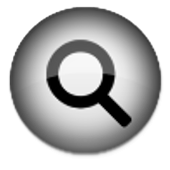
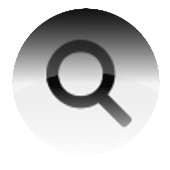
images
added online images

diff --git a/index.html b/index.html
@@ -37,72 +37,34 @@
             </div>
             <div id="galleryContainer">
                 <div id="first-row">
-                    <a href="">
-                        <img src="./images/sample1.jpg" alt=""/>
-                    </a>
-                    <a href="">
-                        <img src="./images/sample1.jpg" alt=""/>
-                    </a>
-                    <a href="">
-                        <img src="./images/sample1.jpg" alt=""/>
-                    </a>
-                    <a href="">
-                        <img src="./images/sample1.jpg" alt=""/>
-                    </a>
+                    <a href="#"></a>
+                    <a href="#"></a>
+                    <a href="#"></a>
+                    <a href="#"></a>
                 </div>
 
                 <div id="second-row">
-                    <a href="">
-                        <img src="./images/sample2.jpg" alt=""/>
-                    </a>
-                    <a href="">
-                        <img src="./images/sample2.jpg" alt=""/>
-                    </a>
-                    <a href="">
-                        <img src="./images/sample2.jpg" alt=""/>
-                    </a>
-                    <a href="">
-                        <img src="./images/sample2.jpg" alt=""/>
-                    </a>
-                    <a href="">
-                        <img src="./images/sample2.jpg" alt=""/>
-                    </a>
-                    <a href="">
-                        <img src="./images/sample2.jpg" alt=""/>
-                    </a>
-                    <a href="">
-                        <img src="./images/sample2.jpg" alt=""/>
-                    </a>
+                    <a href="#"></a>
+                    <a href="#"></a>
+                    <a href="#"></a>
+                    <a href="#"></a>
+                    <a href="#"></a>
+                    <a href="#"></a>
+                    <a href="#"></a>
                 </div>
 
                 <div id="third-row">
-                    <a href="">
-                        <img src="./images/sample3.jpg" alt=""/>
-                    </a>
-                    <a href="">
-                        <img src="./images/sample3.jpg" alt=""/>
-                    </a>
-                    <a href="">
-                        <img src="./images/sample3.jpg" alt=""/>
-                    </a>
+                    <a href="#"></a>
+                    <a href="#"></a>
+                    <a href="#"></a>
                 </div>
 
                 <div id="fourth-row">
-                    <a href="">
-                        <img src="./images/sample4.jpg" alt=""/>
-                    </a>
-                    <a href="">
-                        <img src="./images/sample4.jpg" alt=""/>
-                    </a>
-                    <a href="">
-                        <img src="./images/sample4.jpg" alt=""/>
-                    </a>
-                    <a href="">
-                        <img src="./images/sample4.jpg" alt=""/>
-                    </a>
-                    <a href="">
-                        <img src="./images/sample4.jpg" alt=""/>
-                    </a>
+                    <a href="#"></a>
+                    <a href="#"></a>
+                    <a href="#"></a>
+                    <a href="#"></a>
+                    <a href="#"></a>
                 </div>
             </div>
             <div id="register-box">

diff --git a/styles/mainStyles.css b/styles/mainStyles.css
@@ -6,7 +6,7 @@ body {
     background: url("../images/background.jpg");
     background-size: cover;
     font-family: 'Open Sans', sans-serif;
- }
+}
 
 body div#container header {
     text-align: center;
@@ -54,8 +54,8 @@ body div#container header div#mainMenu ul li {
 }
 
 body div#container header div#mainMenu ul li a {
-    text-decoration: none;
-    color: white;
+text-decoration: none;
+color: white;
 }
 
 body div#container header div#loginBox form {
@@ -76,6 +76,17 @@ body div#container header div#searchBox img {
 
 body div#container header div#searchBox button#search-button {
     background: url("../images/search.png");
+    background-size: cover;
+    width: 35px;
+    height: 35px;
+    border: none;
+    outline: none;
+    vertical-align: middle;
+    cursor: pointer;
+}
+
+body div#container header div#searchBox button#search-button:hover {
+    background: url("../images/search-hover.png");
     background-size: cover;
     width: 35px;
     height: 35px;
@@ -143,20 +154,57 @@ body div#container main div#login-box button, body div#container main div#regist
 }
 
 body div#container main div#galleryContainer {
-    padding: 2px;
-    margin-top: 10px;
-    margin-bottom: 10px;
- }
+    margin: 10px auto;
+    width: 825px;
+    padding: 5px;
+    border-radius: 10px;
+}
 
- #first-row, #second-row, #third-row, #fourth-row {
-     margin: 0;
-     margin-top: 2px;
-     padding: 0;
- }
- 
- body div#container footer {
-     background: url("../images/footer.jpg");
-     height: 50px;
-     margin-top: 15px;
-     background-size: contain;
- }
+body div#container main div#galleryContainer:hover {
+    background: rgba(255, 255, 255, 0.16);
+}
+
+#first-row, #second-row, #third-row, #fourth-row {
+    margin: 0;
+    margin-top: 2px;
+    padding: 0;
+}
+
+body div#container main div#galleryContainer div#first-row a {
+    display: inline-block;
+    width: 203px;
+    height: 114px;
+    background-image: url("http://fc00.deviantart.net/fs70/i/2010/332/2/3/bokeh_16_9_wallpaper_by_zeiphex-d33sn2y.jpg");
+    background-size: contain;
+}
+
+body div#container main div#galleryContainer div#second-row a {
+    display: inline-block;
+    width: 114px;
+    height: 64px;
+    background-image: url("http://www.yahee.net/wp-content/uploads/2014/01/Full-Hd-Duvarka%C4%9F%C4%B1tlar%C4%B1-1-305.jpg");
+    background-size: contain;
+}
+
+body div#container main div#galleryContainer div#third-row a {
+    display: inline-block;
+    width: 272px;
+    height: 153px;
+    background-image: url("http://www.100hdwallpapers.com/wallpapers/1920x1080/dark_game_scene-hd_wallpapers.jpg");
+    background-size: contain;
+}
+
+body div#container main div#galleryContainer div#fourth-row a {
+    display: inline-block;
+    width: 161px;
+    height: 91px;
+    background-image: url("http://squadracorse-polito.com/downloads/wallpapers/16-9/Hybrid%20Win%20USA%2016-9.jpg");
+    background-size: contain;
+}
+
+body div#container footer {
+    background: url("../images/footer.jpg");
+    height: 50px;
+    margin-top: 15px;
+    background-size: contain;
+}
